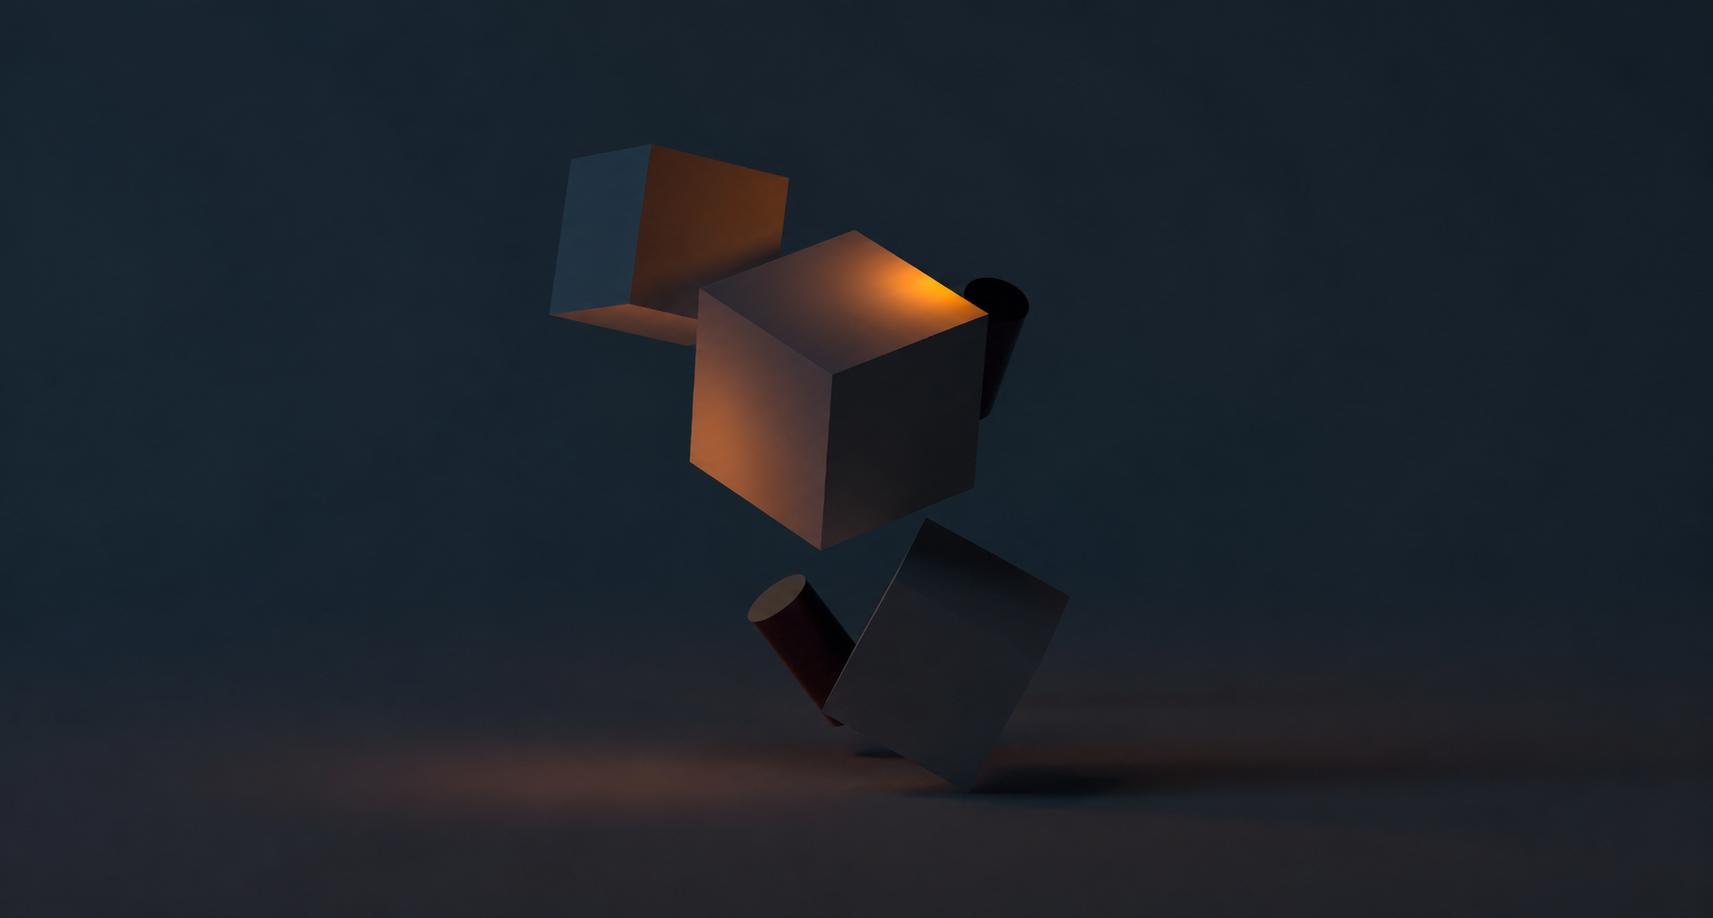
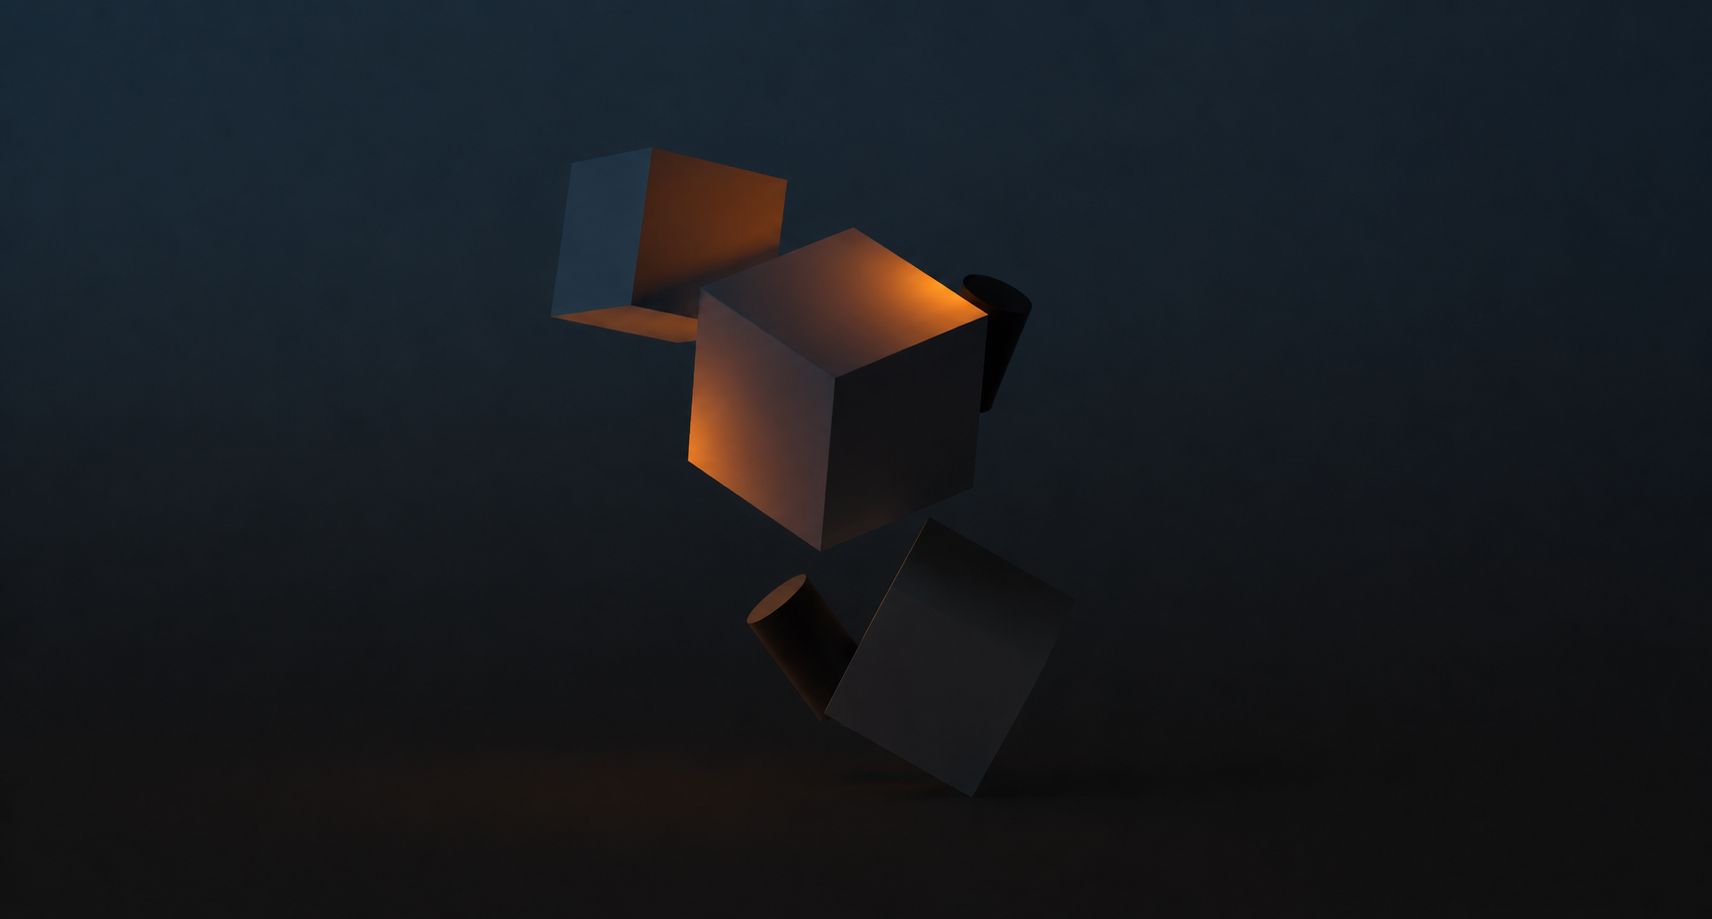
MainBlock DOne

diff --git a/css/styles.css b/css/styles.css
@@ -6,6 +6,10 @@
 font-weight: 600;
 letter-spacing: 0.04em;
 }
+body{
+            background: rgb(30, 30, 30);
+
+}
 .wrapper{
     width: 100%;
     height: auto;
@@ -90,7 +94,7 @@ nav{
 }
 .Expertise{
     width: 100%;
-    background: rgb(33, 36, 43);
+    background: rgb(30, 30, 30);
     display: flex;
     padding: 30px;
     flex-wrap: wrap;
@@ -111,7 +115,7 @@ nav{
     flex-direction: column;
     justify-content: space-around;
     border: 3px solid white;
-    padding: 20px;
+    padding: 20px;  z-index: 2;
 }
 .ExpertiseItemImg{
     width: 15%;
@@ -137,6 +141,7 @@ nav{
 }
 .ExpertiseItem span{
     font-size: 23px;
+  
     color: grey;
 }
 .ExpertiseItemCode{
@@ -148,9 +153,76 @@ nav{
 .BackgroundImg{
      opacity: 0.2;
      position: absolute;
-     top: 1250px;
+     top: 1250px; 
+     z-index: 1;
 }
 main{
     width: 100%;
-    height: 500px;
-    background: rgb(33, 36, 43);}
+    height: auto;
+        background: rgb(30, 30, 30);
+        margin-top: 200px;
+   display: flex;
+   justify-content: center;
+   align-items: center;
+}
+.WeatherForecastImg{
+    width: 55%;
+    height: 400px;
+}
+.mainWork{
+    width: 60%;
+    display: flex;
+    gap: 10%;
+}
+.mainText{
+    width: 35%;
+    display: flex;
+    flex-direction: column;
+    justify-content: space-around;
+    text-align: left;
+    padding: 40px;
+height: 500px;
+color: white;
+}
+.mainText h1{
+    font-size: 120px;
+}
+.mainText p{
+    font-size: 20px;
+}
+.mainWorkText{
+    width: 40%;
+height: auto;
+display: flex;
+flex-direction: column;
+flex-wrap: wrap;
+justify-content: flex-end;
+height: 425px;
+align-items: center;
+gap: 20px;
+justify-content: flex-end;
+}
+.FeaturedProject{
+    color: white;
+    font-size: 40px;
+}
+.ProjectDescription{
+        color: white;
+    font-size: 25px;
+}
+.ArrowImage{
+    width: 40%;
+    height: 100px;
+}
+.ViewProject{
+    width: 100%;
+    height: 100%;
+    background: rgb(176, 41, 255);
+    color: white;
+    border: none;
+    border-radius: 7px;
+}
+.ViewProjectLink{
+    width: 40%;
+    height: 50px;
+}

diff --git a/index.html b/index.html
@@ -57,7 +57,24 @@
             <img src="./img//backgroundImage.png" alt="" class="BackgroundImg">
         </section>
         <main>
-            
+            <div class="mainText">
+                <h1>
+                    MY WORK
+                </h1>
+                <p>
+Built a responsive weather app for locations across Ukraine using a modern JavaScript stack and external weather APIs. Users can search cities and instantly see current temperature, humidity, and weather conditions in a clean, mobile-friendly interface.
+                </p>
+            </div>
+            <div class="mainWork">
+              
+                <div class="mainWorkText">
+                  <img class="ArrowImage" src="./img//ArrowImage.png" alt="">
+                    <h2 class="FeaturedProject">Featured Project</h2>
+                    <h2 class="ProjectDescription">Weather Forecast App</h2>
+                    <a class="ViewProjectLink" href="https://yarick93.github.io/weather-app/"><button class="ViewProject">View Project</button></a>
+                </div>
+                <img src="./img/WeatherForecast.png" alt="" class="WeatherForecastImg">
+            </div>
         </main>
     </div>
     <script src="js/script.js"></script>
